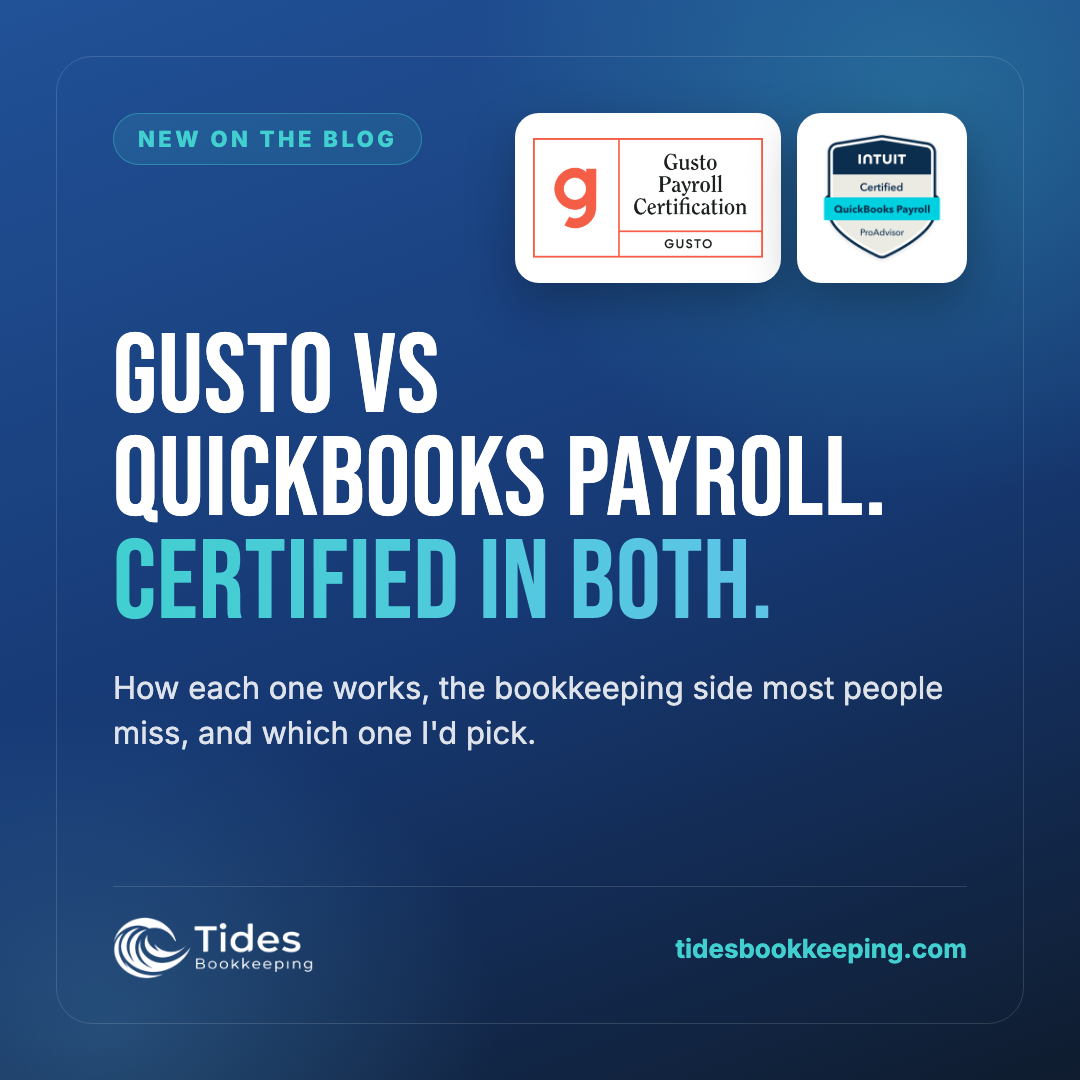
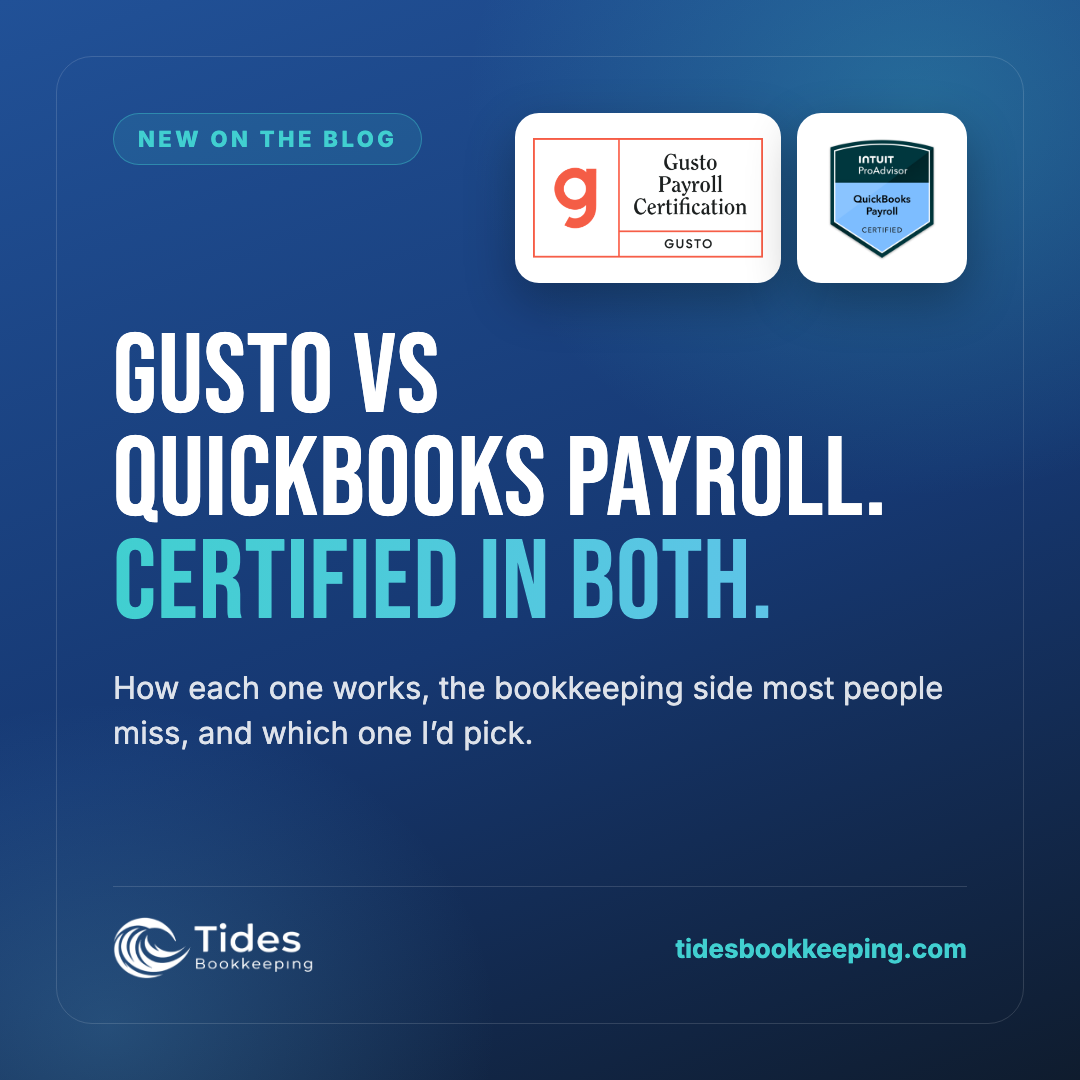
Swap in the new QuickBooks Payroll Certified badge (v3)
The new-design Intuit ProAdvisor payroll badge replaces the old one on the
QuickBooks certification page badge row and the payroll page strip. The two
social graphics that showed the old badge are re-rendered at the same URLs
(the ProAdvisor one now shows Level 2 + Payroll).

Changed region(s): [[0.7639, 0.1222, 0.8861, 0.2444], [0.3972, 0.6722, 0.4889, 0.7028]]

diff --git a/certification-quickbooks-proadvisor.html b/certification-quickbooks-proadvisor.html
@@ -510,7 +510,7 @@
 <section class="section" style="padding:24px 0 56px;">
   <div class="container prose" style="max-width:860px;">
 <dl class="cert-facts"><div><dt>Credential</dt><dd>Advanced QuickBooks ProAdvisor</dd></div><div><dt>QuickBooks Online</dt><dd>Level 1 and Level 2 certified, current through July 1, 2027</dd></div><div><dt>Payroll</dt><dd>QuickBooks Online Payroll Certification, issued March 5, 2025 (listed as QuickBooks Workforce)</dd></div><div><dt>2026 recertification</dt><dd>9.5 CPE credits, completed Sept. 19, 2026</dd></div><div><dt>Also completed</dt><dd>Client Advisory Services Foundations (graduate, Sept. 19, 2026); Intuit Bookkeeping trained</dd></div><div><dt>Issued by</dt><dd>Intuit ProAdvisor Academy</dd></div><div><dt>Reviews</dt><dd>5.0 rating, 8 reviews on the Intuit listing</dd></div><div><dt>Verify</dt><dd><a href="https://proadvisor.intuit.com/app/accountant/search?searchId=daniel-cope" rel="noopener" target="_blank">Intuit Find a ProAdvisor listing</a></dd></div></dl>
-<div class="cert-badges"><img src="/assets/certifications/quickbooks-level-2-badge.png" alt="Intuit ProAdvisor QuickBooks Level 2 Certified badge" width="340" height="340" loading="lazy" /><img src="/assets/certifications/quickbooks-level-1-badge.png" alt="Intuit ProAdvisor QuickBooks Level 1 Certified badge" width="340" height="340" loading="lazy" /><img src="/assets/certifications/quickbooks-payroll-proadvisor-badge.png" alt="Intuit Certified QuickBooks Payroll ProAdvisor badge" width="280" height="280" loading="lazy" /><img src="/assets/certifications/intuit-client-advisory-services-badge.png" alt="Intuit ProAdvisor Client Advisory Services Foundations graduate badge" width="340" height="340" loading="lazy" /><img src="/assets/certifications/intuit-bookkeeping-trained-badge.png" alt="Intuit Bookkeeping Trained badge" width="340" height="340" loading="lazy" /></div>
+<div class="cert-badges"><img src="/assets/certifications/quickbooks-level-2-badge.png" alt="Intuit ProAdvisor QuickBooks Level 2 Certified badge" width="340" height="340" loading="lazy" /><img src="/assets/certifications/quickbooks-level-1-badge.png" alt="Intuit ProAdvisor QuickBooks Level 1 Certified badge" width="340" height="340" loading="lazy" /><img src="/assets/certifications/quickbooks-payroll-certified-badge.png" alt="Intuit ProAdvisor QuickBooks Payroll Certified badge" width="340" height="340" loading="lazy" /><img src="/assets/certifications/intuit-client-advisory-services-badge.png" alt="Intuit ProAdvisor Client Advisory Services Foundations graduate badge" width="340" height="340" loading="lazy" /><img src="/assets/certifications/intuit-bookkeeping-trained-badge.png" alt="Intuit Bookkeeping Trained badge" width="340" height="340" loading="lazy" /></div>
 <div style="max-width:760px;">
 <h2>What the certifications cover</h2>
 <p>Intuit's QuickBooks Online certification comes in two levels. Holding Level 2 is what earns the Advanced ProAdvisor label on Intuit's directory.</p>

diff --git a/service-payroll.html b/service-payroll.html
@@ -856,7 +856,7 @@
 </section>
 
 <!-- certstrip-start -->
-<section class="cert-strip"><div class="container"><div class="cert-strip-inner"><div class="cert-strip-text"><strong>Certified on both payroll platforms we run</strong><span>Daniel is <a href="/certification-gusto-payroll">Gusto Payroll Certified</a> and holds Intuit's <a href="/certification-quickbooks-proadvisor">QuickBooks payroll certification</a>. Not sure which fits you? Read <a href="/blog-gusto-vs-quickbooks-payroll">Gusto vs QuickBooks Payroll</a>, or for restaurants, <a href="/blog-best-payroll-software-for-restaurants">the best restaurant payroll software</a>.</span></div><div class="cert-strip-badges"><a href="/certification-gusto-payroll"><img src="/assets/certifications/gusto-payroll-certification-badge.png" alt="Gusto Payroll Certification badge" width="420" height="219" loading="lazy" /></a><a href="/certification-quickbooks-proadvisor"><img src="/assets/certifications/quickbooks-payroll-proadvisor-badge.png" alt="Intuit Certified QuickBooks Payroll ProAdvisor badge" width="280" height="280" loading="lazy" /></a></div></div></div></section>
+<section class="cert-strip"><div class="container"><div class="cert-strip-inner"><div class="cert-strip-text"><strong>Certified on both payroll platforms we run</strong><span>Daniel is <a href="/certification-gusto-payroll">Gusto Payroll Certified</a> and holds Intuit's <a href="/certification-quickbooks-proadvisor">QuickBooks payroll certification</a>. Not sure which fits you? Read <a href="/blog-gusto-vs-quickbooks-payroll">Gusto vs QuickBooks Payroll</a>, or for restaurants, <a href="/blog-best-payroll-software-for-restaurants">the best restaurant payroll software</a>.</span></div><div class="cert-strip-badges"><a href="/certification-gusto-payroll"><img src="/assets/certifications/gusto-payroll-certification-badge.png" alt="Gusto Payroll Certification badge" width="420" height="219" loading="lazy" /></a><a href="/certification-quickbooks-proadvisor"><img src="/assets/certifications/quickbooks-payroll-certified-badge.png" alt="Intuit ProAdvisor QuickBooks Payroll Certified badge" width="340" height="340" loading="lazy" /></a></div></div></div></section>
 <!-- certstrip-end -->
 <!-- glossterms-start -->
 <section class="gloss-terms"><div class="container"><div class="gloss-terms-inner"><h3>Terms that show up around payroll</h3><p>Plain-English explainers, no jargon.</p><div class="gloss-pills"><a href="/what-is-net-income">Net Income</a><a href="/what-is-a-profit-and-loss-statement">Profit &amp; Loss (P&amp;L)</a><a href="/what-is-accounts-payable">Accounts Payable</a><a href="/what-is-a-chart-of-accounts">Chart of Accounts</a><a href="/what-is-a-general-ledger">General Ledger</a><a class="gloss-all" href="/glossary">Full glossary &rarr;</a></div></div></div></section>
